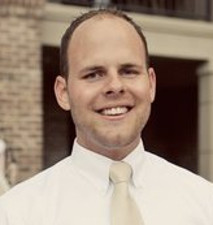
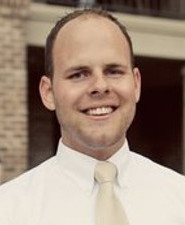
More suggested updates and tweaks

diff --git a/index.html b/index.html
@@ -72,9 +72,10 @@
                     <span class="icon-bar"></span>
                     <span class="icon-bar"></span>
                 </button>
-                <a class="navbar-brand page-scroll" href="#page-top">
-                <img src="/img/logos/LogoNoText.png" alt="logo" >Timesent</img>
-                </a>
+                <!--<a class="navbar-brand page-scroll" href="#page-top">
+                <img src="img/logos/LogoNoText.png" class="img-responsive" alt="logo" >
+                </a>-->
+                <a class="navbar-brand page-scroll" href="#page-top">Timesent</a>
             </div>
 
             <!-- Collect the nav links, forms, and other content for toggling -->
@@ -423,11 +424,11 @@
                         <ul class="list-inline social-buttons">
                             <li><a href="mailto: mark@timesent.com"><i class="fa fa-envelope"></i></a>
                             </li>
-                            <li><a href="#"><i class="fa fa-twitter"></i></a>
+                            <li><a href="https://twitter.com/Timesent1"><i class="fa fa-twitter"></i></a>
                             </li>
-                            <li><a href="#"><i class="fa fa-facebook"></i></a>
+                            <li><a href="https://www.facebook.com/Timesent-799507080110314/"><i class="fa fa-facebook"></i></a>
                             </li>
-                            <li><a href="#"><i class="fa fa-linkedin"></i></a>
+                            <li><a href="https://www.linkedin.com/in/mark-jones-2913128a"><i class="fa fa-linkedin"></i></a>
                             </li>
                         </ul>
                         <p class="text-muted">
@@ -437,17 +438,17 @@
                 </div>
                 <div class="col-sm-3">
                     <div class="team-member">
-                        <img src="img/team/derrik2-scaled.jpg" class="img-responsive img-circle" alt="">
+                        <img src="img/team/derrik3-scaled.jpg" class="img-responsive img-circle" alt="">
                         <h4>Derrik Staheli</h4>
                         <p class="text-muted">COO </p>
                         <ul class="list-inline social-buttons">
                             <li><a href="mailto: derrik@timesent.com"><i class="fa fa-envelope"></i></a>
                             </li>
-                            <li><a href="#"><i class="fa fa-twitter"></i></a>
+                            <li><a href="https://twitter.com/Timesent1"><i class="fa fa-twitter"></i></a>
                             </li>
-                            <li><a href="#"><i class="fa fa-facebook"></i></a>
+                            <li><a href="https://www.facebook.com/Timesent-799507080110314/"><i class="fa fa-facebook"></i></a>
                             </li>
-                            <li><a href="#"><i class="fa fa-linkedin"></i></a>
+                            <li><a href="https://www.linkedin.com/in/derrik-staheli-b13771b6"><i class="fa fa-linkedin"></i></a>
                             </li>
                         </ul>
                         <p class="text-muted">
@@ -463,11 +464,11 @@
                         <ul class="list-inline social-buttons">
                             <li><a href="mailto: matt@timesent.com"><i class="fa fa-envelope"></i></a>
                             </li>
-                            <li><a href="#"><i class="fa fa-twitter"></i></a>
+                            <li><a href="https://twitter.com/Timesent1"><i class="fa fa-twitter"></i></a>
                             </li>
-                            <li><a href="#"><i class="fa fa-facebook"></i></a>
+                            <li><a href="https://www.facebook.com/Timesent-799507080110314/"><i class="fa fa-facebook"></i></a>
                             </li>
-                            <li><a href="#"><i class="fa fa-linkedin"></i></a>
+                            <li><a href="https://www.linkedin.com/in/matthew-stowell-407b8564"><i class="fa fa-linkedin"></i></a>
                             </li>
                         </ul>
                                                 <p class="text-muted">
@@ -483,11 +484,11 @@
                         <ul class="list-inline social-buttons">
                             <li><a href="mailto: glen@timesent.com"><i class="fa fa-envelope"></i></a>
                             </li> 
-                            <li><a href="#"><i class="fa fa-twitter"></i></a>
+                            <li><a href="https://twitter.com/Timesent1"><i class="fa fa-twitter"></i></a>
                             </li>
-                            <li><a href="#"><i class="fa fa-facebook"></i></a>
+                            <li><a href="https://www.facebook.com/Timesent-799507080110314/"><i class="fa fa-facebook"></i></a>
                             </li>
-                            <li><a href="#"><i class="fa fa-linkedin"></i></a>
+                            <li><a href="www.linkedin.com/in/glenlhall"><i class="fa fa-linkedin"></i></a>
                             </li>
                         </ul>
                         <p class="text-muted">
@@ -576,9 +577,9 @@
                     <ul class="list-inline social-buttons">
                         <li><a href="mailto: contact@timesent.com"><i class="fa fa-envelope"></i></a>
                         </li>
-                        <li><a href="#"><i class="fa fa-twitter"></i></a>
+                        <li><a href="https://twitter.com/Timesent1"><i class="fa fa-twitter"></i></a>
                         </li>
-                        <li><a href="#"><i class="fa fa-facebook"></i></a>
+                        <li><a href="https://www.facebook.com/Timesent-799507080110314/"><i class="fa fa-facebook"></i></a>
                         </li>
                         <li><a href="#"><i class="fa fa-linkedin"></i></a>
                         </li>
